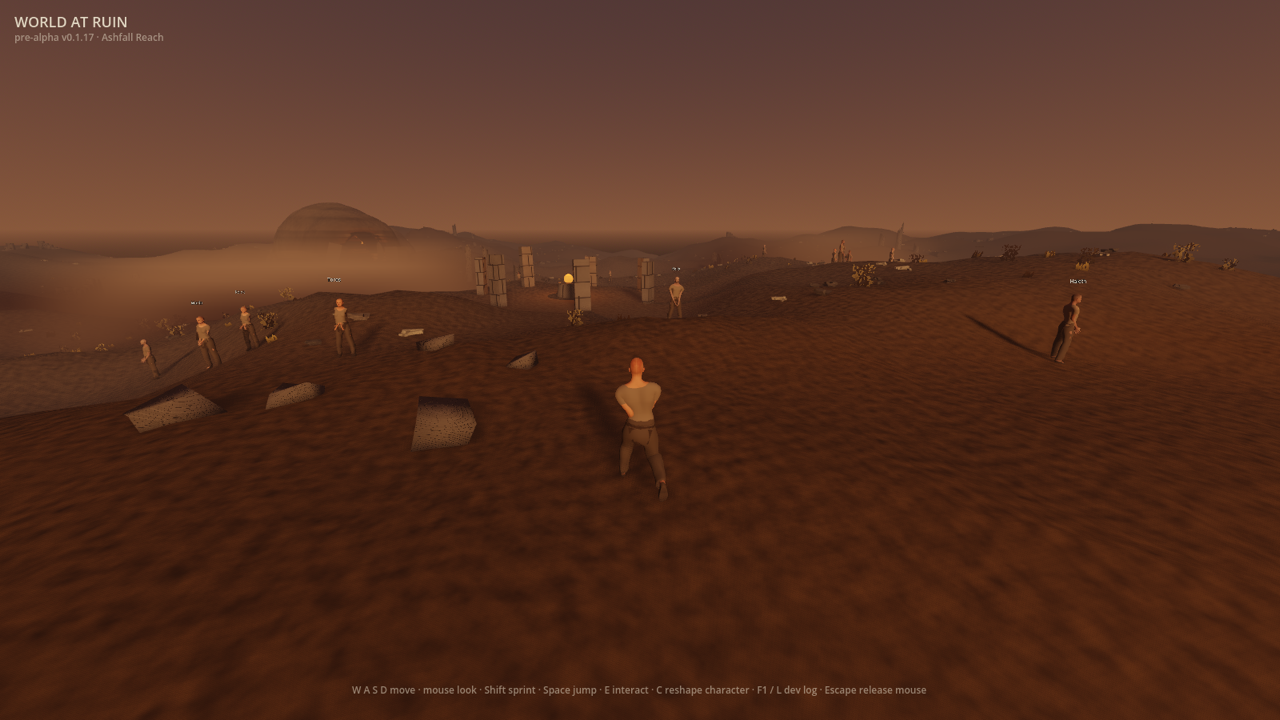
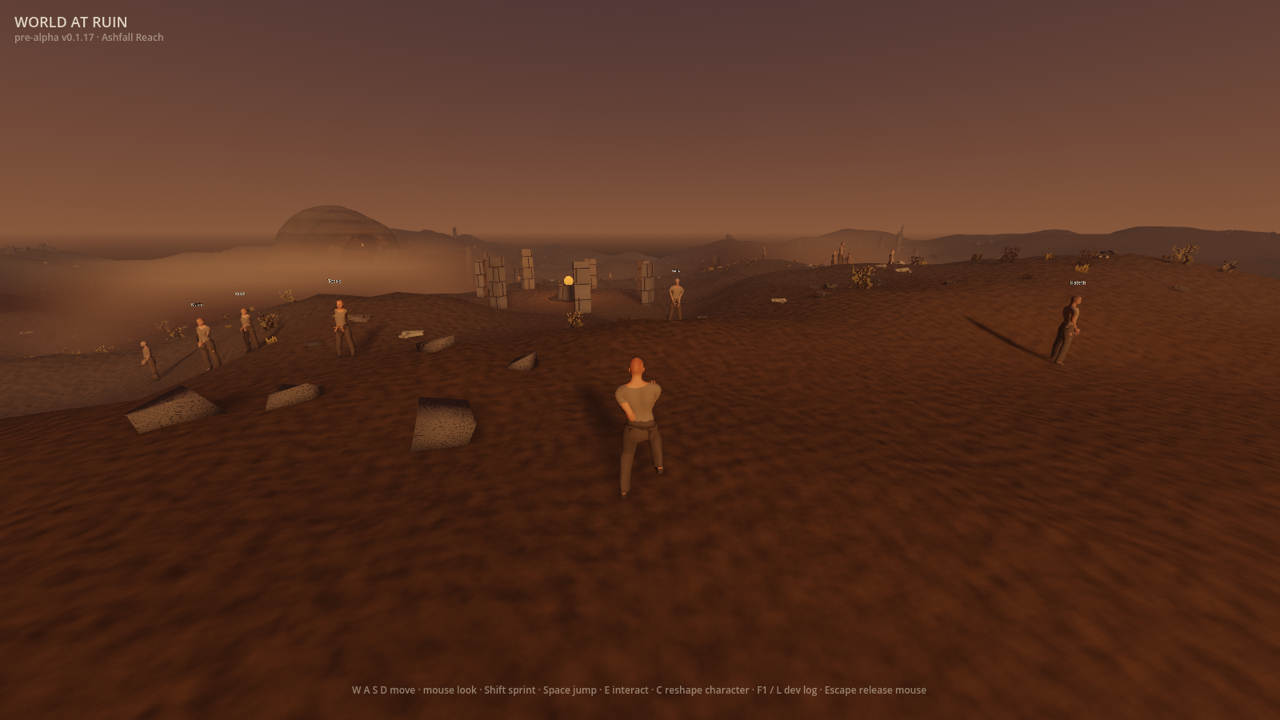
fix(world): keep planted feet flat and still through idle and gait changes
Each foot now counter-rotates the leg's whole turn, so it keeps its
standing orientation and its toe and heel no longer sweep the ground as
the knee flexes. The leg is solved in the pelvis's rest frame, so the
breathing idle's weight shift no longer swings a planted foot sideways.
The phase advances at the blended stride through a walk-run change, so
a planted foot holds the ground across a sprint press or release.

diff --git a/docs/evidence/issue-904-planted-feet/README.md b/docs/evidence/issue-904-planted-feet/README.md
@@ -30,7 +30,7 @@ Metal 4.0 Forward+, Godot 4.7.1, `client/recipes/wanderer.json`.
 | walk, before | 300 steps/min | 31% of the stretch | **127%** of body speed | 109% of body speed |
 | walk, planted | 300 steps/min | 52% of the stretch | **6%** of body speed | 36% of body speed |
 | run, before | 350 steps/min | 17% of the stretch | **140%** of body speed | 111% of body speed |
-| run, planted | 350 steps/min | 26% of the stretch | **5%** of body speed | 42% of body speed |
+| run, planted | 350 steps/min | 19% of the stretch | **5%** of body speed | 48% of body speed |
 
 "Down" means no more than 1 cm above the foot's standing height. The "down foot
 moves at" column is the one to judge a planted foot by. Before, a down foot moved faster
@@ -40,7 +40,7 @@ flight, when the nearest foot is the one swinging forward.
 
 Cadence and speed are unchanged, because stride length and speed are
 unchanged. The trace fingerprint changes, because the feet move differently,
[2 lines of base64/hex data omitted]
 
 ### How much of the time a foot is down
 
@@ -51,7 +51,7 @@ body's own ground plane with no terrain under it, both gaits reach it:
 | Gait | A foot is down, flat ground | Geometric share | Over the drive's terrain |
 |---|---|---|---|
 | walk | 57.0% of the cycle | 49.5% | 52% of the stretch |
-| run | 41.5% of the cycle | 37.6% | 26% of the stretch |
+| run | 41.5% of the cycle | 37.6% | 19% of the stretch |
 
 The flat-ground figures run above the share because a foot also counts as down
 for the moment it is within 1 cm of the ground as it lifts and lands.
@@ -60,7 +60,10 @@ for the moment it is within 1 cm of the ground as it lifts and lands.
 Over the drive's real terrain the run reads lower. The feet plant on the body's
 own flat ground plane, so on a downhill stretch a planted foot hangs a few
 centimetres above the ground under it and counts as lifted, while its slip stays
-at 5%. Planting on the terrain itself is #909, so on the drive #904 is judged by
+at 5%. How much lands on a downhill stretch depends on where each step falls: with
+the sprint press advancing the phase at the switched stride instead of the blended
+one, the same drive reads 26% for the run, still at 5% slip. Planting on the
+terrain itself is #909, so on the drive #904 is judged by
 slip, cadence and the flat-ground share, and the terrain share belongs to #909.
 
 ## The follow camera
@@ -81,6 +84,12 @@ shipped rig, to the millimetre:
 
 - a planted ankle stays at its standing height and moves back under the hip
   exactly as far as the body travels;
+- the foot keeps its standing orientation, so a planted toe holds the ground with
+  the ankle instead of sweeping it as the knee flexes;
+- the breathing idle's weight shift, which rolls the pelvis, moves a planted
+  ankle no more than the 2.5 mm the hip joint itself moves;
+- a sprint press or release moves a planted foot at no more than 15% of body
+  speed through the blend (4.1% measured);
 - on flat ground each gait keeps a foot down for its whole geometric share;
 - no phase of either gait moves a foot sideways;
 - a foot leaves and meets the ground standing still over it;
@@ -103,8 +112,11 @@ press without a jump in any bone.
 | A foot trailing past the leg's reach is not lifted instead | the run straightens its knee to 1.8° of flexion |
 | The jump keeps the gaits' lowered pelvis | the jump is posed from a lowered pelvis |
 | A rig that cannot plant keeps its gaits enabled | a rig that cannot plant a foot kept a grounded gait enabled |
-| The foot lifts as `sqrt(sin)`, infinitely fast at lift-off | the sprint press steps a bone 7.2° in one millisecond |
+| The foot lifts as `sqrt(sin)`, infinitely fast at lift-off | the sprint press steps a bone 7.9° in one millisecond |
 | The right foot floats 2 cm above the ground | the walk keeps a foot down for 27.0% of the cycle, short of its 49.5% share |
+| The foot left on the shin's rotation | the walk's planted foot pitches 11.0° off its standing orientation |
+| The leg follows the pelvis's live roll | the idle's weight shift moves a planted ankle 1.8 cm |
+| The phase jumps to the new stride's rate at a sprint press | a planted foot moves at 18% of body speed through the blend |
 
-The last two rows were real defects in earlier drafts of this change, and the
-tests found both.
+The reach-limit, lift and last three rows were real defects, found by these
+tests in earlier drafts or in review.
